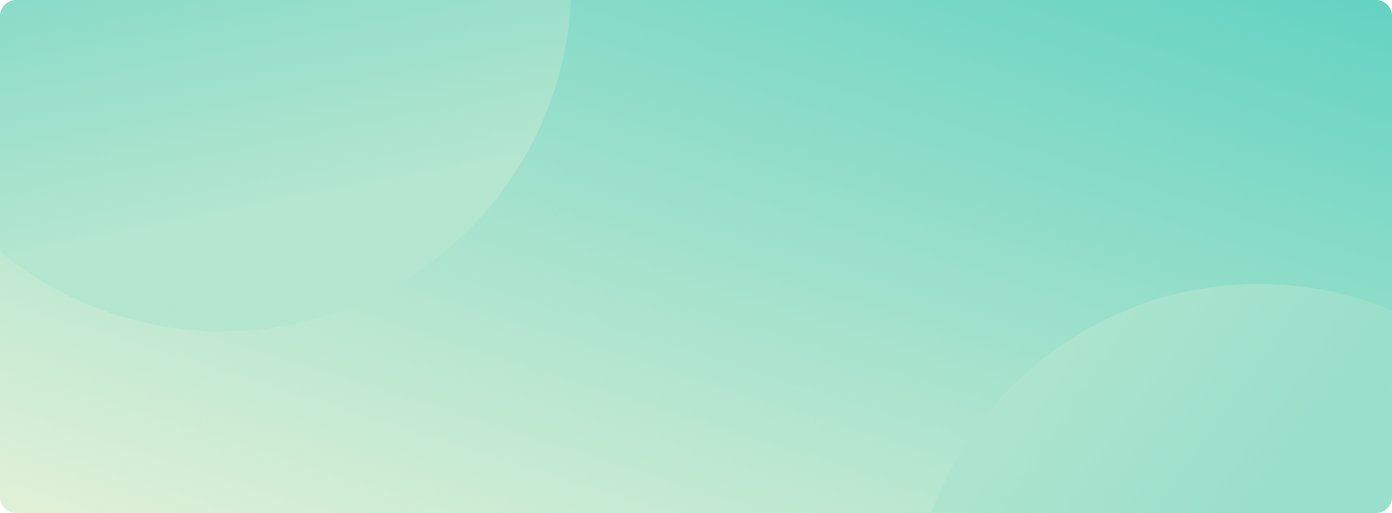
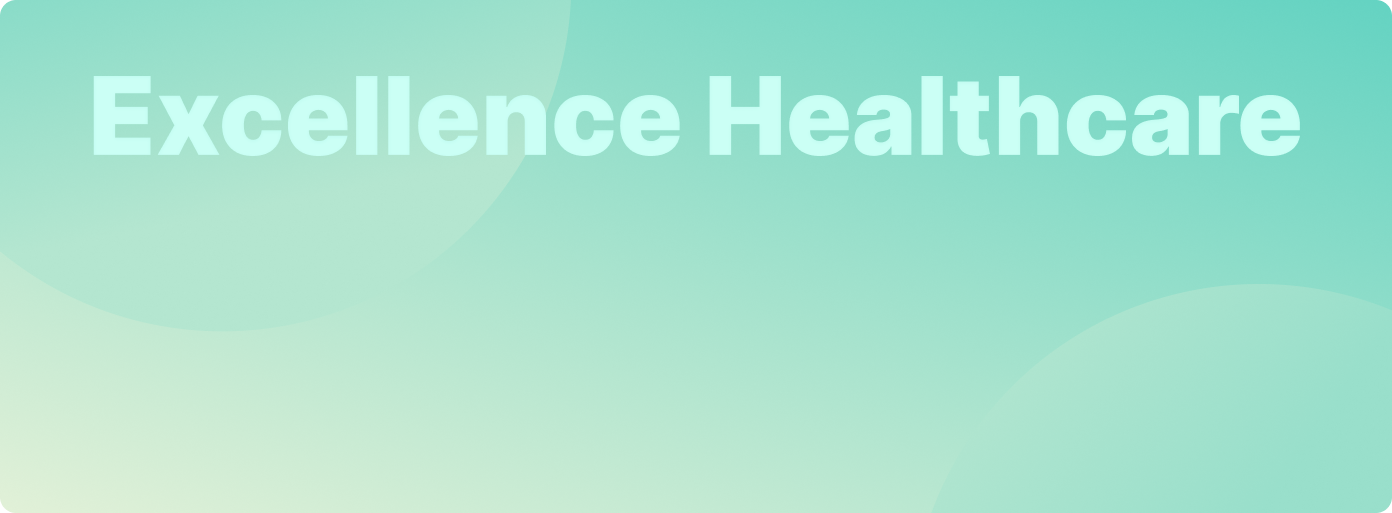
123

Changed region(s): [[0.0618, 0.1248, 0.9576, 0.3119]]

diff --git a/css/style.css b/css/style.css
@@ -152,3 +152,156 @@ h5 {
   background: var(--Primary-500, #5ABEAF);
   box-shadow: 0 2px 3px 0 rgba(0, 0, 0, 0.01), 0 2px 2px 0 rgba(135, 80, 255, 0.06);
 }
+
+/* Header */
+
+.header__flex {
+  padding: 40px 0 80px;
+  display: flex;
+  flex-wrap: wrap;
+  gap: 40px;
+}
+
+.header__hero {
+  background-image: url(../img/hero-doc.png), url(../img/hero-bg.png);
+  background-position: bottom center, center;
+  background-repeat: no-repeat;
+  height: 513px;
+  width: 100%;
+}
+
+/* .header__hero h2 {
+  padding-top: 40px;
+  font-size: 125px;
+  text-align: center;
+  width: 100%;
+} */
+
+.hero__flex {
+  display: flex;
+  padding-top: 205px;
+  justify-content: space-around;
+}
+
+.hero__flex div {
+  display: flex;
+  gap: 6px;
+  align-items: center;
+  color: var(--Neutrals-800, #181B39);
+  font-family: "Sequel Sans";
+  font-size: 22px;
+  font-weight: 315;
+  line-height: 150%;
+}
+
+.hero__flexdown {
+  display: flex;
+  padding: 150px 69px 0;
+  justify-content: space-between;
+  align-items: center;
+}
+
+.hero__flexdown p {
+  color: var(--Base-White, #FFF);
+  text-align: left;
+  font-family: Inter;
+  font-size: 16px;
+  font-weight: 500;
+  line-height: 140%;
+}
+
+.hero__flexdown button {
+  padding: 13px 20px;
+  justify-content: center;
+  align-items: center;
+  border-radius: 30px;
+  background: var(--Primary-600, #50A99B);
+  color: #fff;
+  border-style: none;
+}
+
+.header__flex p {
+  width: 355px;
+  color: var(--Neutrals-800, #181B39);
+  font-family: Inter;
+  font-size: 18px;
+  font-weight: 400;
+  line-height: 140%;
+}
+
+.cons__title {
+  display: flex;
+  align-items: center;
+  justify-content: space-between;
+}
+
+.header__cons {
+  width: 437px;
+  padding: 31px 48px;
+  flex-direction: column;
+  justify-content: center;
+  align-items: center;
+  gap: 10px;
+  border-radius: 12px;
+  background: var(--Red-300, #FDDBDB);
+}
+
+.header__cons:nth-child(3) {
+  background: var(--Primary-300, #CFF1EC);
+} 
+
+.header__cons:nth-child(4) {
+  background: var(--Yellow-300, #FFF6CA);
+}
+
+.header__cons h3 {
+  color: var(--Neutrals-800, #181B39);
+  font-family: Inter;
+  font-size: 24px;
+  font-style: normal;
+  font-weight: 600;
+  line-height: 34px;
+}
+
+.header__cons p {
+  color: var(--Neutrals-700, #525B5A);
+  font-family: Inter;
+  font-size: 18px;
+  line-height: 140%;
+  width: 260px;
+  padding: 25px 0 30px;
+}
+
+.header__cons a {
+  width: 100%;
+  display: flex;
+  border-radius: 30px;
+  background: var(--Neutrals-900, #0D1525);
+  display: flex;
+  color: #fff;
+  padding: 13px 48px;
+  justify-content: center;
+  align-items: center;
+  gap: 4px;
+}
+
+.header__round {
+  width: 60px;
+  padding: 30px;
+  border-radius: 50px;
+}
+
+.header__round1 {
+  background: #fff url(../img/header-group.svg) no-repeat center;
+    box-shadow: 0 7px 60px 0 rgba(0, 0, 0, 0.06);
+}
+
+.header__round2 {
+  background: #fff url(../img/header-cons.svg) no-repeat center;
+  box-shadow: 0 7px 60px 0 rgba(0, 0, 0, 0.06);
+}
+
+.header__round3 {
+  background: #fff url(../img/header-support.svg) no-repeat center;
+  box-shadow: 0 7px 60px 0 rgba(0, 0, 0, 0.06);
+}

diff --git a/index.html b/index.html
@@ -29,7 +29,51 @@
     </section>
     <header class="header">
       <div class="container">
-        
+        <div class="header__flex">
+          <div class="header__hero">
+            <!-- <h2>Exellence Healthcare</h2> -->
+            <div class="hero__flex">
+              <div>
+                <img src="img/group.png" alt="">
+                Reduce HbA1c</div>
+              <div><img src="img/no-drugs.png" alt="">
+                No more medications</div>
+            </div>
+            <div class="hero__flexdown">
+              <p>Prioritizing your well-being with top-tier medical expertise and compassionate care tailored to your needs</p>
+              <button>Schedule An Appointment</button>
+            </div>
+          </div>  
+          <div class="header__cons">
+            <div class="cons__title">
+              <h3>Qualified Doctors</h3>
+              <div class="header__round header__round1">
+              </div>
+            </div>
+            <p>Schedule your appointment with your health consultation with the best doctors in medicare</p>
+              <a>Scheduling an Appointment
+                <img src="img/arrow.svg">
+              </a>
+          </div>
+          <div class="header__cons">
+            <div class="cons__title">
+              <h3>Qualified Doctors</h3>
+              <div class="header__round header__round2">
+              </div>
+            </div>
+            <p>Schedule your appointment with your health consultation with the best doctors in medicare</p>
+            <a>Scheduling an Appointment<img src="img/arrow.svg"></a>
+          </div>
+          <div class="header__cons">
+            <div class="cons__title">
+              <h3>24/7 Support</h3>
+              <div class="header__round header__round3">
+              </div>
+            </div>
+            <p>Schedule your appointment with your health consultation with the best doctors in medicare</p>
+            <a>Scheduling an Appointment<img src="img/arrow.svg"></a>
+          </div>
+        </div>
       </div>
     </header>
   </body>

diff --git a/css/reset.css b/css/reset.css
@@ -55,4 +55,5 @@ h1, h2, h3, h4, h5, h6 {
 a {
   text-decoration: none;
   color: inherit;
+  cursor: pointer;
 }
